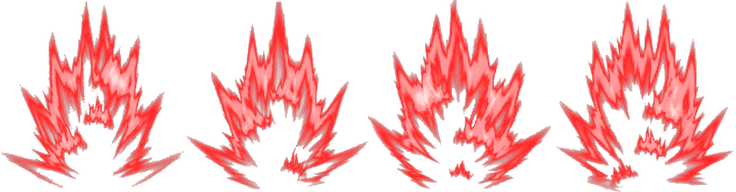
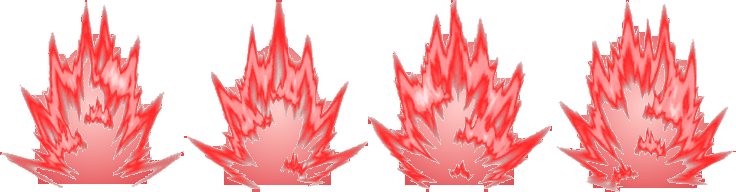
novo 0.154: auras vermelhas com o miolo preenchido
Claude-Session: https://claude.ai/code/session_01QkbtJoCpGHcYGXCafKsAMX

diff --git a/novo/src/dados/novidades.ts b/novo/src/dados/novidades.ts
@@ -11,7 +11,7 @@ export const NOVIDADES: Novidade[] = [
     itens: [
       'Aura azul agora só nas formas Blue. Os Saiyajins na forma normal (Vegeta, Gohan, Trunks, Gotenks, Bardock, Vegetto, Raditz) e a Androide 18 têm uma aura clara, cinza e translúcida.',
       'Goku normal com a aura vermelha do Kaioken e o corpo levemente avermelhado.',
-      'A aura verde forte (Piccolo, Cell, Broly, Androide 17) tinha só o contorno: agora o centro é preenchido de verde, e saíram os quadros em que ela se desfazia e piscava.',
+      'A aura verde forte (Piccolo, Cell, Broly, Androide 17) tinha só o contorno: agora o centro é preenchido de verde, e saíram os quadros em que ela se desfazia e piscava. As auras vermelhas (Kaioken e Super Saiyajin God) também ganharam o miolo preenchido.',
       'Quadros que ficavam fora do centro da aura foram centralizados: Piccolo sem capa (parado, carregar ki e parry), Piccolo Laranja, Bardock SSJ, Cell Perfeito, Freeza ciborgue e terceira forma, Gotenks SSJ3, Raditz e Trunks Fúria.',
       'O nome "Sem capa" do Piccolo não aparece mais na barra de vida.',
     ],

diff --git a/novo/scripts/preencher-aura.py b/novo/scripts/preencher-aura.py
@@ -1,0 +1,59 @@
+#!/usr/bin/env python3
+"""Preenche o miolo vazio de uma tira de aura (v0.154: a verde forte só tinha o contorno; as vermelhas tinham
+buracos entre as labaredas). Em cada quadro, os vãos pequenos do desenho são fechados e um miolo em forma de chama
+(abaixo das pontas, arredondado embaixo) é preenchido atrás do corpo; o que estava vazio dentro dele
+ganha a cor do miolo, mais clara no centro e mais forte perto da borda, meio transparente. O desenho original fica
+por cima, igual. Depois: scripts/gerar-efeitos.py.
+
+    python3 scripts/preencher-aura.py aura_vermelha 4 189 192 "255,190,180" "230,60,60"
+"""
+import sys
+
+import numpy as np
+from PIL import Image, ImageFilter
+
+TOPO = 0.22      # o miolo começa abaixo das pontas das labaredas
+LARGURA = 0.30   # meia-largura do miolo, em fração da largura do desenho
+
+
+def preencher(fr: Image.Image, centro, borda) -> Image.Image:
+    a = np.asarray(fr).astype(np.float32)
+    m = a[..., 3] > 30
+    h, w = m.shape
+    ys, xs = np.nonzero(m)
+    if not len(ys):
+        return fr
+    # miolo em forma de chama (um ovo mais fino em cima), atrás do corpo; mais os buracos fechados do desenho
+    forma = np.array(Image.fromarray((m * 255).astype(np.uint8)).filter(ImageFilter.MaxFilter(7)).filter(ImageFilter.MinFilter(7))) > 0
+    topo, base = ys.min(), ys.max()
+    cx, alt = (xs.min() + xs.max()) / 2, base - topo
+    yy, xx = np.mgrid[0:h, 0:w]
+    t = np.clip((yy - topo - alt * TOPO) / max(1, alt * (1 - TOPO)), 0, 1)       # 0 no alto do miolo, 1 na base
+    meia = (xs.max() - xs.min()) * LARGURA * np.sqrt(np.clip(t * (2 - t), 0, 1))  # largura cresce e arredonda
+    forma |= (yy >= topo + alt * TOPO) & (yy <= base - alt * 0.02) & (np.abs(xx - cx) <= meia)
+    vazio = forma & ~m
+    vy, vx = np.nonzero(vazio)
+    if len(vy):
+        cy, cx = ys.mean(), xs.mean()
+        r = np.clip(np.hypot((vy - cy) / max(1, np.ptp(ys) / 2), (vx - cx) / max(1, np.ptp(xs) / 2)), 0, 1)
+        cor = np.array(centro)[None, :] * (1 - r[:, None]) + np.array(borda)[None, :] * r[:, None]
+        a[vy, vx, :3] = cor
+        a[vy, vx, 3] = 165 + 60 * r
+    return Image.fromarray(a.astype(np.uint8), 'RGBA')
+
+
+def main() -> None:
+    nome, n, w, h = sys.argv[1], int(sys.argv[2]), int(sys.argv[3]), int(sys.argv[4])
+    centro = [int(v) for v in sys.argv[5].split(',')]
+    borda = [int(v) for v in sys.argv[6].split(',')]
+    caminho = f'fontes/efeitos/{nome}.png'
+    im = Image.open(caminho).convert('RGBA')
+    out = Image.new('RGBA', im.size, (0, 0, 0, 0))
+    for i in range(n):
+        out.alpha_composite(preencher(im.crop((i * w, 0, (i + 1) * w, h)), centro, borda), (i * w, 0))
+    out.save(caminho)
+    print(f'{nome}: {n} quadros preenchidos')
+
+
+if __name__ == '__main__':
+    main()

diff --git a/AGENTS.md b/AGENTS.md
@@ -27,7 +27,7 @@ Repo layout:
 - Sprites: `novo/scripts/gerar-atlas.py` turns `novo/fontes/conjuntos/<nome>/<forma>.json` (frame = `[x, y, w, h, webp b64]`, placement `gx = 48 + (x − centroX)/k`, `gy = 103 + (y − pesY)/k` in a 96x112 cell, idle ≈ 88 units) into `novo/public/atlas/<nome>-<forma>.webp/.json` (cells 144x168) plus `retratos`; rerun it whenever a pack changes. A form's `transform` strip is the PREVIOUS form's TRANSFORMAR strip. After rebuilding packs, check that no frame leaves the 96x112 frame and that no frame is only fragments (v0.124). A new form = pack file + `variantes` in the pack + entry in `dados/personagens.ts` (`f(forma, nome, aura, altura)`) + atlas; `tests/atlas.test.ts` counts the forms.
 - Thin forms (v0.150): `novo/scripts/alargar-forma.py <nome> <forma> <pct>` widens a pack from the neck down (torso, arms, legs; head and height unchanged), keeps the drawing centred and moves the `mao`/`dedo` point; then rebuild that atlas. Piccolo `semcapa` got 20%; v0.151: Trunks `furia` 20%, Vegeta `normal`/`blue` 15%, Bardock `ssj`, Vegetto `ssj`/`blue`, Android 17 `super17` 10% (TRANSFORMAR frames that still show the other form are in `PULAR`). Colour fixes: `novo/scripts/corrigir-cor.py <nome> <forma> <ref>` matches a hue band to a reference form (Vegeta `god` suit blue = `normal` ×`VIVO`, also the first 3 TRANSFORMAR frames of `blue`). Always show the user an in-game-scale preview before changing a sprite.
 - Defeat (v0.148): a fallen fighter (`acao 'caido'`) is thrown backwards off screen by the last hit (v0.149, 3x stronger in v0.153: `quedaVx`/`quedaVy` set in `aplicarDano` from its `direcao`, arc with drag and gravity in `voarParaFora`, no spin, never below the floor) instead of turning translucent.
-- Auras (v0.154): blue (`azul`/`blue`) only on Blue forms (test enforces); Saiyan base forms use `branca` (drawn flame, `ALFA_AURA` 0.6); Goku normal = `vermelho` + `tom: TOM_KAIOKEN` (sprite tint applied in `Luta.desenharLutador`, the hit flash wins). `aura_verde_forte` strip = 6 filled frames. `novo/scripts/centralizar-quadros.py [--gravar]` re-centres idle/chargeKi/parry frames whose lower-body centre is >7 px off the form median (the aura is drawn on the sprite centre).
+- Auras (v0.154): blue (`azul`/`blue`) only on Blue forms (test enforces); Saiyan base forms use `branca` (drawn flame, `ALFA_AURA` 0.6); Goku normal = `vermelho` + `tom: TOM_KAIOKEN` (sprite tint applied in `Luta.desenharLutador`, the hit flash wins). `aura_verde_forte` strip = 6 filled frames; `aura_vermelha`/`_forte` hollow centres filled with `novo/scripts/preencher-aura.py` (flame-shaped core behind the body). `novo/scripts/centralizar-quadros.py [--gravar]` re-centres idle/chargeKi/parry frames whose lower-body centre is >7 px off the form median (the aura is drawn on the sprite centre).
 - Effects: `novo/scripts/gerar-efeitos.py` packs `novo/fontes/efeitos/*.png` (table in `dados/efeitos.ts`) into the `efeitos` multiatlas; drawing `ui/efeitos.ts`, math `logica/efeitos.ts`. Sound is synthesized (`audio/som.ts` + `logica/musica.ts` + `dados/temas.ts`); never transcribe real songs' melodies.
 - Updates (v0.129): `app/aviso.ts` (`verificarAtualizacao`, at most every 10 min, called by Menu/Atualizacoes) only CHECKS — app: the same latest.json decision; site: `versao.json` emitted by the `versao-json` plugin in `vite.config.ts` vs `__BUILD__` — and lights a red "!" dot on the 4-star sphere and on UPDATES; on the site ATUALIZAÇÕES shows RECARREGAR (`recarregarSite`). Nothing is downloaded automatically; the app updates only from the ⟳ ATUALIZAR button (latest.json from the `app-bundle` prerelease, through native `CapacitorHttp`, sha256-checked download). In an Android browser the button is BAIXAR APP.
 
